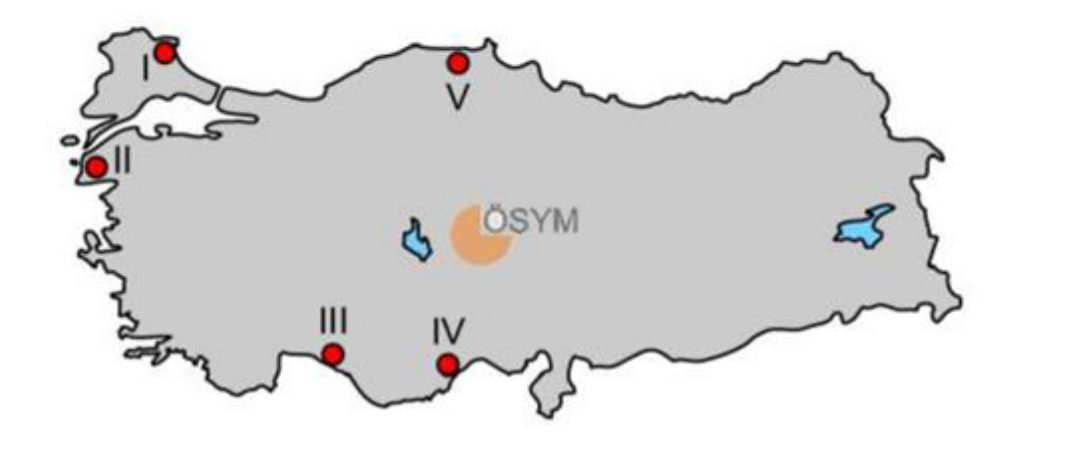
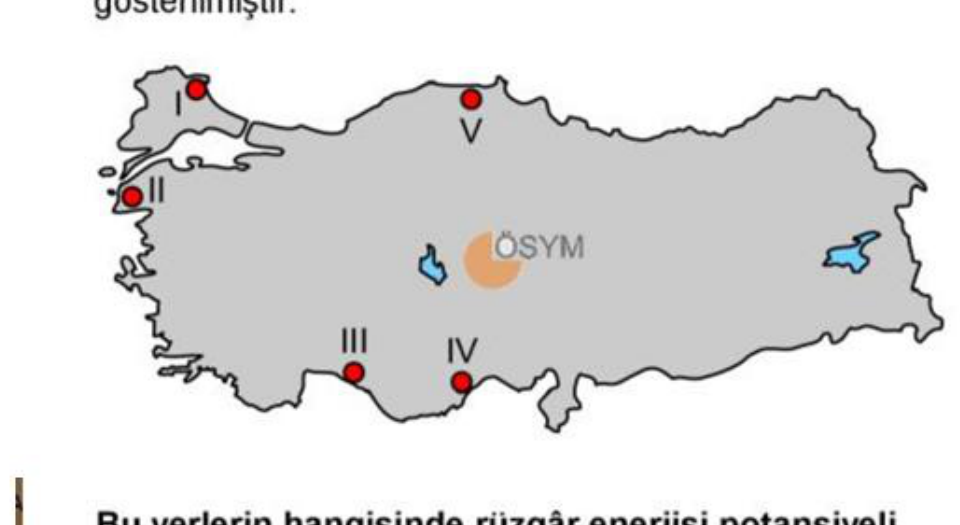
Add 2022 EKYS Q6 and Q9 authentic map images and update questions-db

diff --git a/data/questions-db.js b/data/questions-db.js
@@ -15366,37 +15366,37 @@ window.EKYS_EXTRACTED_QUESTIONS = [
     "id": "ekys_2022_q6",
     "testId": "ekys2022_tam",
     "testTitle": "2022 EKYS Çıkmış Sınavı",
-    "topicId": "ekys_2022_tarih",
-    "topicName": "2022 EKYS - Genel Tarih",
-    "category": "Genel Kültür - Tarih",
+    "topicId": "ekys_2022_cogr",
+    "topicName": "2022 EKYS - Coğrafya",
+    "category": "Genel Kültür - Coğrafya",
     "questionNumber": 6,
-    "questionText": "Osmanlı Devleti'nde halkın ilk kez padişahın yanında yönetime katıldığı ve parlamentolu sisteme geçişin sağlandığı gelişme aşağıdakilerden hangisidir?",
-    "hasImage": false,
-    "image": null,
+    "questionText": "Türkiye'de topoğrafik özellikler nedeniyle akarsular, bazı alanlarda dar ve derin vadiler oluşturmaktadır.\n\nBuna göre yukarıdaki haritada numaralandırılarak gösterilen alanların hangisinde bu tür vadiler yaygın değildir?",
+    "hasImage": true,
+    "image": "assets/questions/ekys2022_q6_map.png",
     "options": [
       {
         "key": "A",
-        "text": "Tanzimat Fermanı'nın ilanı (1839)"
+        "text": "I"
       },
       {
         "key": "B",
-        "text": "Islahat Fermanı'nın ilanı (1856)"
+        "text": "II"
       },
       {
         "key": "C",
-        "text": "I. Meşrutiyet'in ilanı ve Kanun-i Esasi (1876)"
+        "text": "III"
       },
       {
         "key": "D",
-        "text": "Sened-i İttifak (1808)"
+        "text": "IV"
       },
       {
         "key": "E",
-        "text": "Bâb-ı Âli Baskını (1913)"
+        "text": "V"
       }
     ],
-    "correctAnswer": "C",
-    "explanation": "Doğru Cevap: <strong>C</strong><br>1876 yılında I. Meşrutiyet'in ilanı ve Kanun-i Esasi'nin yürürlüğe girmesiyle Meclis-i Mebusan açılmış ve halk ilk kez yönetime katılmıştır."
+    "correctAnswer": "A",
+    "explanation": "Doğru Cevap: <strong>A</strong> (I - Ergene Havzası)<br>Marmara Bölgesi'nde yer alan <strong>Ergene Havzası (I)</strong>, ortalama yükseltinin ve eğimin en az olduğu, yer şekillerinin sade ve düz olduğu bir alandır. Bu nedenle buradaki akarsular dar ve derin (çentik/kanyon) vadiler oluşturamaz; geniş tabanlı ve menderesli vadiler oluşturur. II (Küre Dağları/Kastamonu), III (İç Batı Anadolu), IV (Toroslar/Çukurova çevresi) ve V (Doğu Anadolu) gibi engebeli ve yüksek alanlarda ise akarsular dar ve derin vadiler kazarlar."
   },
   {
     "id": "ekys_2022_q7",
@@ -15406,9 +15406,81 @@ window.EKYS_EXTRACTED_QUESTIONS = [
     "topicName": "2022 EKYS - Coğrafya",
     "category": "Genel Kültür - Coğrafya",
     "questionNumber": 7,
-    "questionText": "Aşağıdaki haritada bazı alanlar numaralandırılarak gösterilmiştir.\n\nBu yerlerin hangisinde rüzgâr enerjisi potansiyeli daha yüksektir?",
+    "questionText": "Türkiye, jeotermal enerji potansiyeli bakımından dünyada önemli bir yere sahiptir.\n\nBu kaynağın oluşmasında;\nI. aktif bir tektonik kuşak üzerinde yer alması,\nII. masif arazilerin geniş alanlar kaplaması,\nIII. kayaç çeşitliliğinin fazla olması\n\nfaktörlerinden hangileri etkili olmuştur?",
+    "hasImage": false,
+    "image": null,
+    "options": [
+      {
+        "key": "A",
+        "text": "Yalnız I"
+      },
+      {
+        "key": "B",
+        "text": "Yalnız II"
+      },
+      {
+        "key": "C",
+        "text": "Yalnız III"
+      },
+      {
+        "key": "D",
+        "text": "I ve II"
+      },
+      {
+        "key": "E",
+        "text": "II ve III"
+      }
+    ],
+    "correctAnswer": "A",
+    "explanation": "Doğru Cevap: <strong>A</strong> (Yalnız I)<br>Türkiye'nin genç oluşumlu bir arazi yapısına sahip olması, aktif fay hatları ve tektonik kuşaklar üzerinde yer alması jeotermal (sıcak su) kaynaklarının ve potansiyelinin zengin olmasını sağlamıştır. Masif araziler ise eski, oturmuş kütleler olup jeotermal bakımından fakirdir."
+  },
+  {
+    "id": "ekys_2022_q8",
+    "testId": "ekys2022_tam",
+    "testTitle": "2022 EKYS Çıkmış Sınavı",
+    "topicId": "ekys_2022_cogr",
+    "topicName": "2022 EKYS - Coğrafya",
+    "category": "Genel Kültür - Coğrafya",
+    "questionNumber": 8,
+    "questionText": "Aşağıdaki yerleşmelerin hangisinde gerçekleştirilen ekonomik faaliyet türü diğerlerinden farklıdır?",
+    "hasImage": false,
+    "image": null,
+    "options": [
+      {
+        "key": "A",
+        "text": "Kom"
+      },
+      {
+        "key": "B",
+        "text": "Ağıl"
+      },
+      {
+        "key": "C",
+        "text": "Oba"
+      },
+      {
+        "key": "D",
+        "text": "Dalyan"
+      },
+      {
+        "key": "E",
+        "text": "Yayla"
+      }
+    ],
+    "correctAnswer": "D",
+    "explanation": "Doğru Cevap: <strong>D</strong> (Dalyan)<br>Kom, Ağıl, Oba ve Yayla geçici köy altı yerleşmeleri olup temel ekonomik faaliyet <strong>hayvancılıktır</strong>. <strong>Dalyan</strong> yerleşmelerinde ise temel ekonomik faaliyet <strong>balıkçılıktır</strong> (su ürünleri)."
+  },
+  {
+    "id": "ekys_2022_q9",
+    "testId": "ekys2022_tam",
+    "testTitle": "2022 EKYS Çıkmış Sınavı",
+    "topicId": "ekys_2022_cogr",
+    "topicName": "2022 EKYS - Coğrafya",
+    "category": "Genel Kültür - Coğrafya",
+    "questionNumber": 9,
+    "questionText": "Aşağıdaki haritada beş yer numaralandırılarak gösterilmiştir.\n\nBu yerlerin hangisinde rüzgâr enerjisi potansiyeli daha yüksektir?",
     "hasImage": true,
-    "image": "assets/questions/ekys2022_q7_map.png",
+    "image": "assets/questions/ekys2022_q9_map.png",
     "options": [
       {
         "key": "A",
@@ -15432,79 +15504,7 @@ window.EKYS_EXTRACTED_QUESTIONS = [
       }
     ],
     "correctAnswer": "B",
-    "explanation": "Doğru Cevap: <strong>B</strong> (II - Çanakkale / Biga Yarımadası)<br>Türkiye'de rüzgâr enerjisi potansiyelinin en yüksek olduğu alanların başında Marmara ve Ege kıyıları, özellikle <strong>Çanakkale (II - Biga Yarımadası)</strong>, Balıkesir ve İzmir çevresi gelmektedir. Çanakkale Boğazı ve çevresi sürekli ve güçlü hava akımlarına açık olması nedeniyle rüzgâr enerjisi santralleri (RES) bakımından ülkemizin en verimli alanlarındandır.<br><br><strong>Haritada İşaretli Alanlar:</strong><br>• <strong>I:</strong> Kırklareli / Trakya<br>• <strong>II:</strong> Çanakkale / Biga Yarımadası (En Yüksek Rüzgâr Potansiyeli - Doğru Cevap)<br>• <strong>III:</strong> Teke Yarımadası / Antalya<br>• <strong>IV:</strong> Taşeli Platosu / Mersin<br>• <strong>V:</strong> Sinop / İnceburun"
-  },
-  {
-    "id": "ekys_2022_q8",
-    "testId": "ekys2022_tam",
-    "testTitle": "2022 EKYS Çıkmış Sınavı",
-    "topicId": "ekys_2022_cogr",
-    "topicName": "2022 EKYS - Coğrafya",
-    "category": "Genel Kültür - Coğrafya",
-    "questionNumber": 8,
-    "questionText": "Türkiye'de İç Anadolu Bölgesi'nde doğal orman örtüsünün tahrip edilmesi sonucu ortaya çıkan ve kurakçıl ot topluluklarından oluşan bitki örtüsüne ne ad verilir?",
-    "hasImage": false,
-    "image": null,
-    "options": [
-      {
-        "key": "A",
-        "text": "Garig"
-      },
-      {
-        "key": "B",
-        "text": "Psödömaki"
-      },
-      {
-        "key": "C",
-        "text": "Antropojen Bozkır"
-      },
-      {
-        "key": "D",
-        "text": "Alpin Çayır"
-      },
-      {
-        "key": "E",
-        "text": "Tayga"
-      }
-    ],
-    "correctAnswer": "C",
-    "explanation": "Doğru Cevap: <strong>C</strong><br>İç bölgelerde insanların ormanları tahrip etmesiyle oluşan bozkırlara 'Antropojen Bozkır' denir."
-  },
-  {
-    "id": "ekys_2022_q9",
-    "testId": "ekys2022_tam",
-    "testTitle": "2022 EKYS Çıkmış Sınavı",
-    "topicId": "ekys_2022_cogr",
-    "topicName": "2022 EKYS - Coğrafya",
-    "category": "Genel Kültür - Coğrafya",
-    "questionNumber": 9,
-    "questionText": "Erzurum-Kars ve Ardahan platolarında büyükbaş mera hayvancılığının yaygın olarak yapılmasını sağlayan temel doğal faktör aşağıdakilerden hangisidir?",
-    "hasImage": false,
-    "image": null,
-    "options": [
-      {
-        "key": "A",
-        "text": "Yaz yağışlarına bağlı olarak gelişen gür çayır örtüsü"
-      },
-      {
-        "key": "B",
-        "text": "Kış mevsiminin ılık ve yağışlı geçmesi"
-      },
-      {
-        "key": "C",
-        "text": "Tarımsal sulama imkânlarının çok fazla olması"
-      },
-      {
-        "key": "D",
-        "text": "Maki ve garig bitki topluluklarının yaygınlığı"
-      },
-      {
-        "key": "E",
-        "text": "Pazarlama ve tüketim merkezlerine çok yakın olması"
-      }
-    ],
-    "correctAnswer": "A",
-    "explanation": "Doğru Cevap: <strong>A</strong><br>Sert karasal iklimin yaz yağışları sayesinde yaz boyu yeşil kalan gür dağ çayırları, Erzurum-Kars platosunda büyükbaş mera hayvancılığını hâkim kılmıştır."
+    "explanation": "Doğru Cevap: <strong>B</strong> (II - Çanakkale / Biga Yarımadası)<br>Türkiye'de rüzgâr enerjisi potansiyelinin en yüksek olduğu alanların başında Marmara ve Ege kıyıları, özellikle <strong>Çanakkale (II - Biga Yarımadası)</strong>, Balıkesir ve İzmir çevresi gelmektedir. Çanakkale Boğazı ve çevresi sürekli ve güçlü hava akımlarına açık olması nedeniyle rüzgâr enerjisi santralleri (RES) bakımından ülkemizin en verimli alanlarındandır.<br><br><strong>Haritada İşaretli Alanlar:</strong><br>• <strong>I:</strong> Kırklareli / İğneada<br>• <strong>II:</strong> Çanakkale / Biga Yarımadası (En Yüksek Rüzgâr Potansiyeli - Doğru Cevap)<br>• <strong>III:</strong> Teke Yarımadası / Antalya<br>• <strong>IV:</strong> Taşeli Platosu / Mersin (Anamur)<br>• <strong>V:</strong> Sinop / İnceburun"
   },
   {
     "id": "ekys_2022_q10",
@@ -15514,33 +15514,33 @@ window.EKYS_EXTRACTED_QUESTIONS = [
     "topicName": "2022 EKYS - Coğrafya",
     "category": "Genel Kültür - Coğrafya",
     "questionNumber": 10,
-    "questionText": "Dünya toplam rezervlerinin yaklaşık %73'ü Türkiye'de bulunan; Balıkesir (Bigadiç), Kütahya (Emet), Eskişehir (Seyitgazi) ve Bursa'da çıkarılan stratejik maden aşağıdakilerden hangisidir?",
+    "questionText": "Türkiye'de bulunduğu il için bir sembol hâline gelmiş pek çok mekân bulunur.\n\nBuna göre aşağıdaki sembol ve bulunduğu il eşleştirmelerinden hangisi yanlıştır?",
     "hasImage": false,
     "image": null,
     "options": [
       {
         "key": "A",
-        "text": "Krom"
+        "text": "Kız Kalesi – Mersin"
       },
       {
         "key": "B",
-        "text": "Boksit"
+        "text": "Selimiye Camii – Edirne"
       },
       {
         "key": "C",
-        "text": "Bor Mineralleri"
+        "text": "Sümela Manastırı – Trabzon"
       },
       {
         "key": "D",
-        "text": "Bakır"
+        "text": "Milet Antik Kenti – İzmir"
       },
       {
         "key": "E",
-        "text": "Mermer"
+        "text": "İshak Paşa Sarayı – Ağrı"
       }
     ],
-    "correctAnswer": "C",
-    "explanation": "Doğru Cevap: <strong>C</strong><br>Türkiye, dünya bor rezervlerinin yaklaşık %73'üne sahiptir. Başlıca yataklar Balıkesir, Kütahya, Eskişehir ve Bursa'dadır."
+    "correctAnswer": "D",
+    "explanation": "Doğru Cevap: <strong>D</strong> (Milet Antik Kenti – İzmir)<br>Milet Antik Kenti İzmir'de değil, <strong>Aydın</strong> ili (Didim/Söke ilçesi sınırları) sınırları içerisinde yer almaktadır."
   },
   {
     "id": "ekys_2022_q11",
